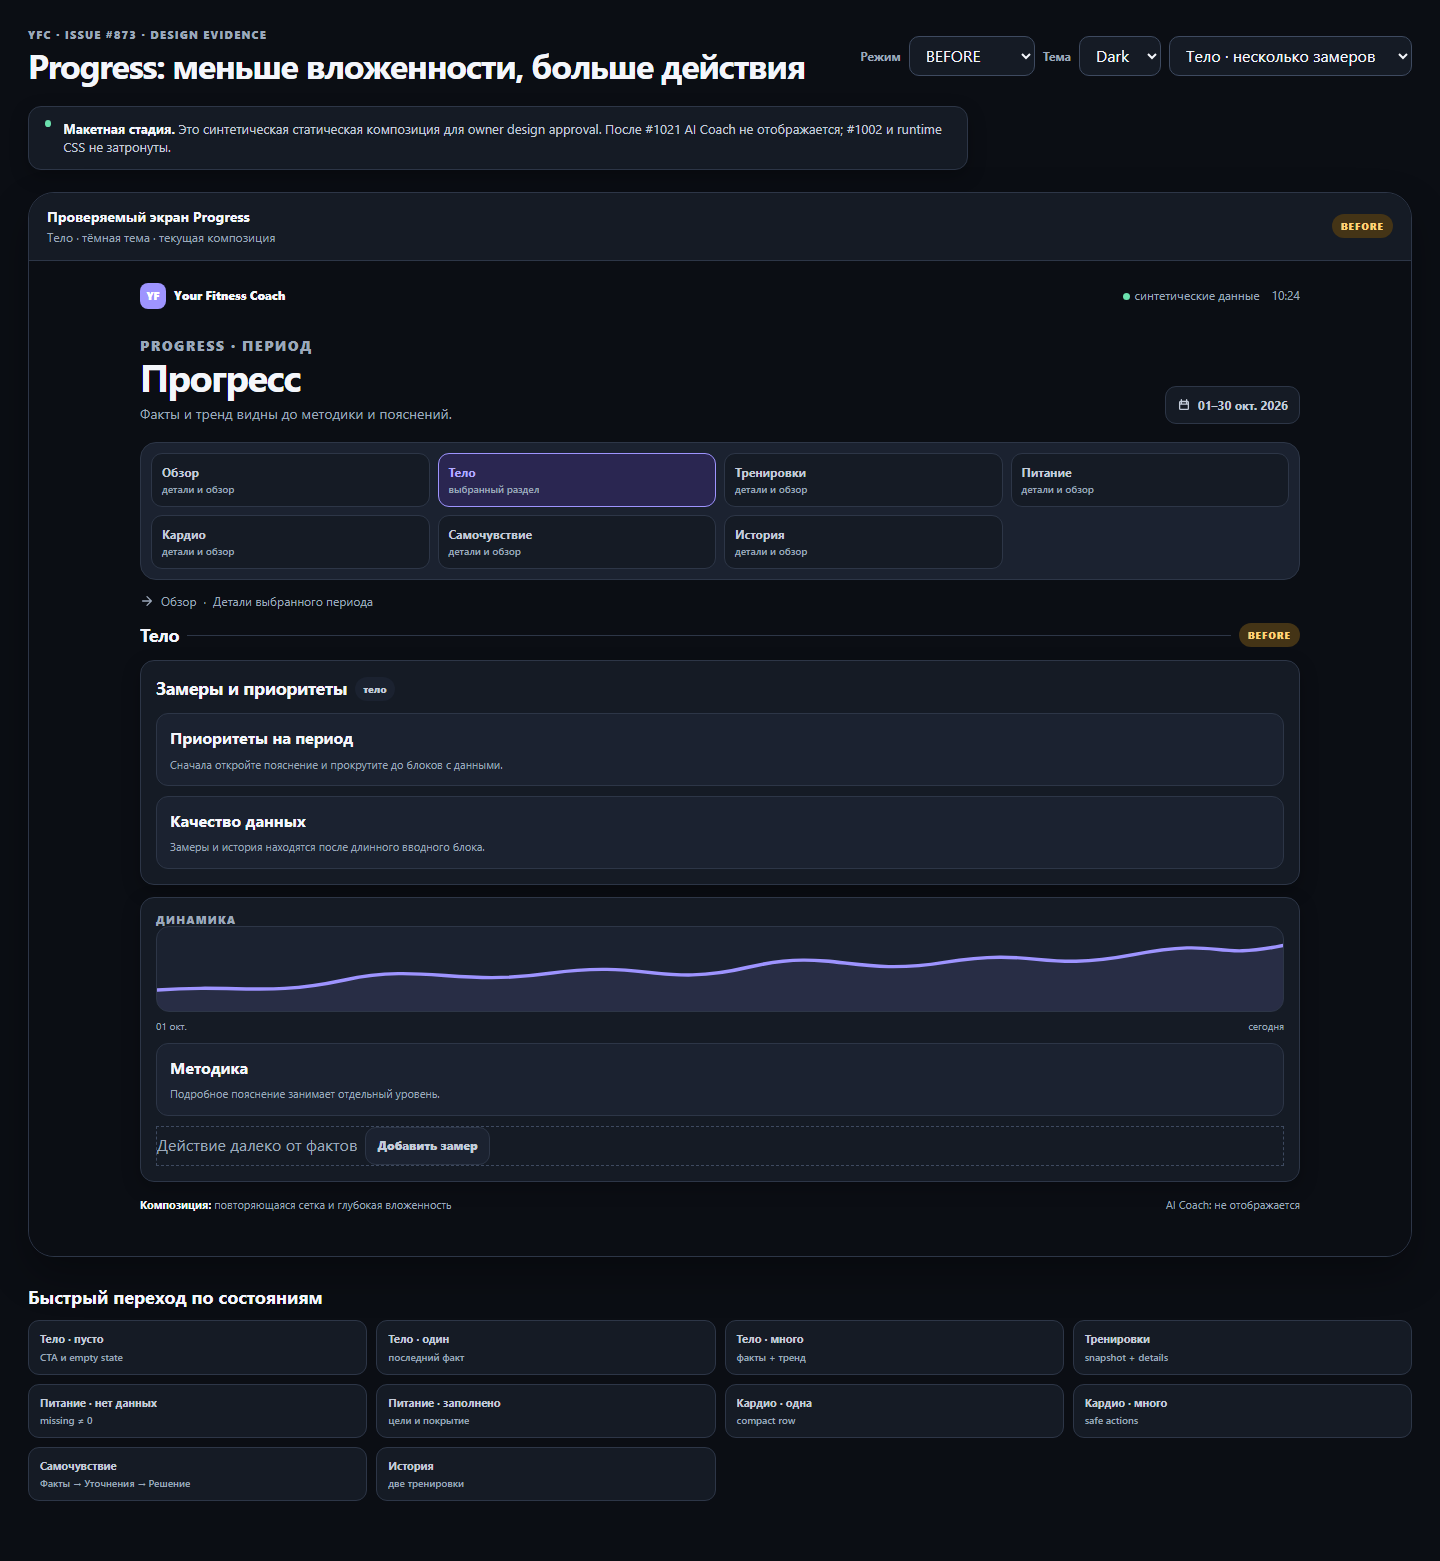
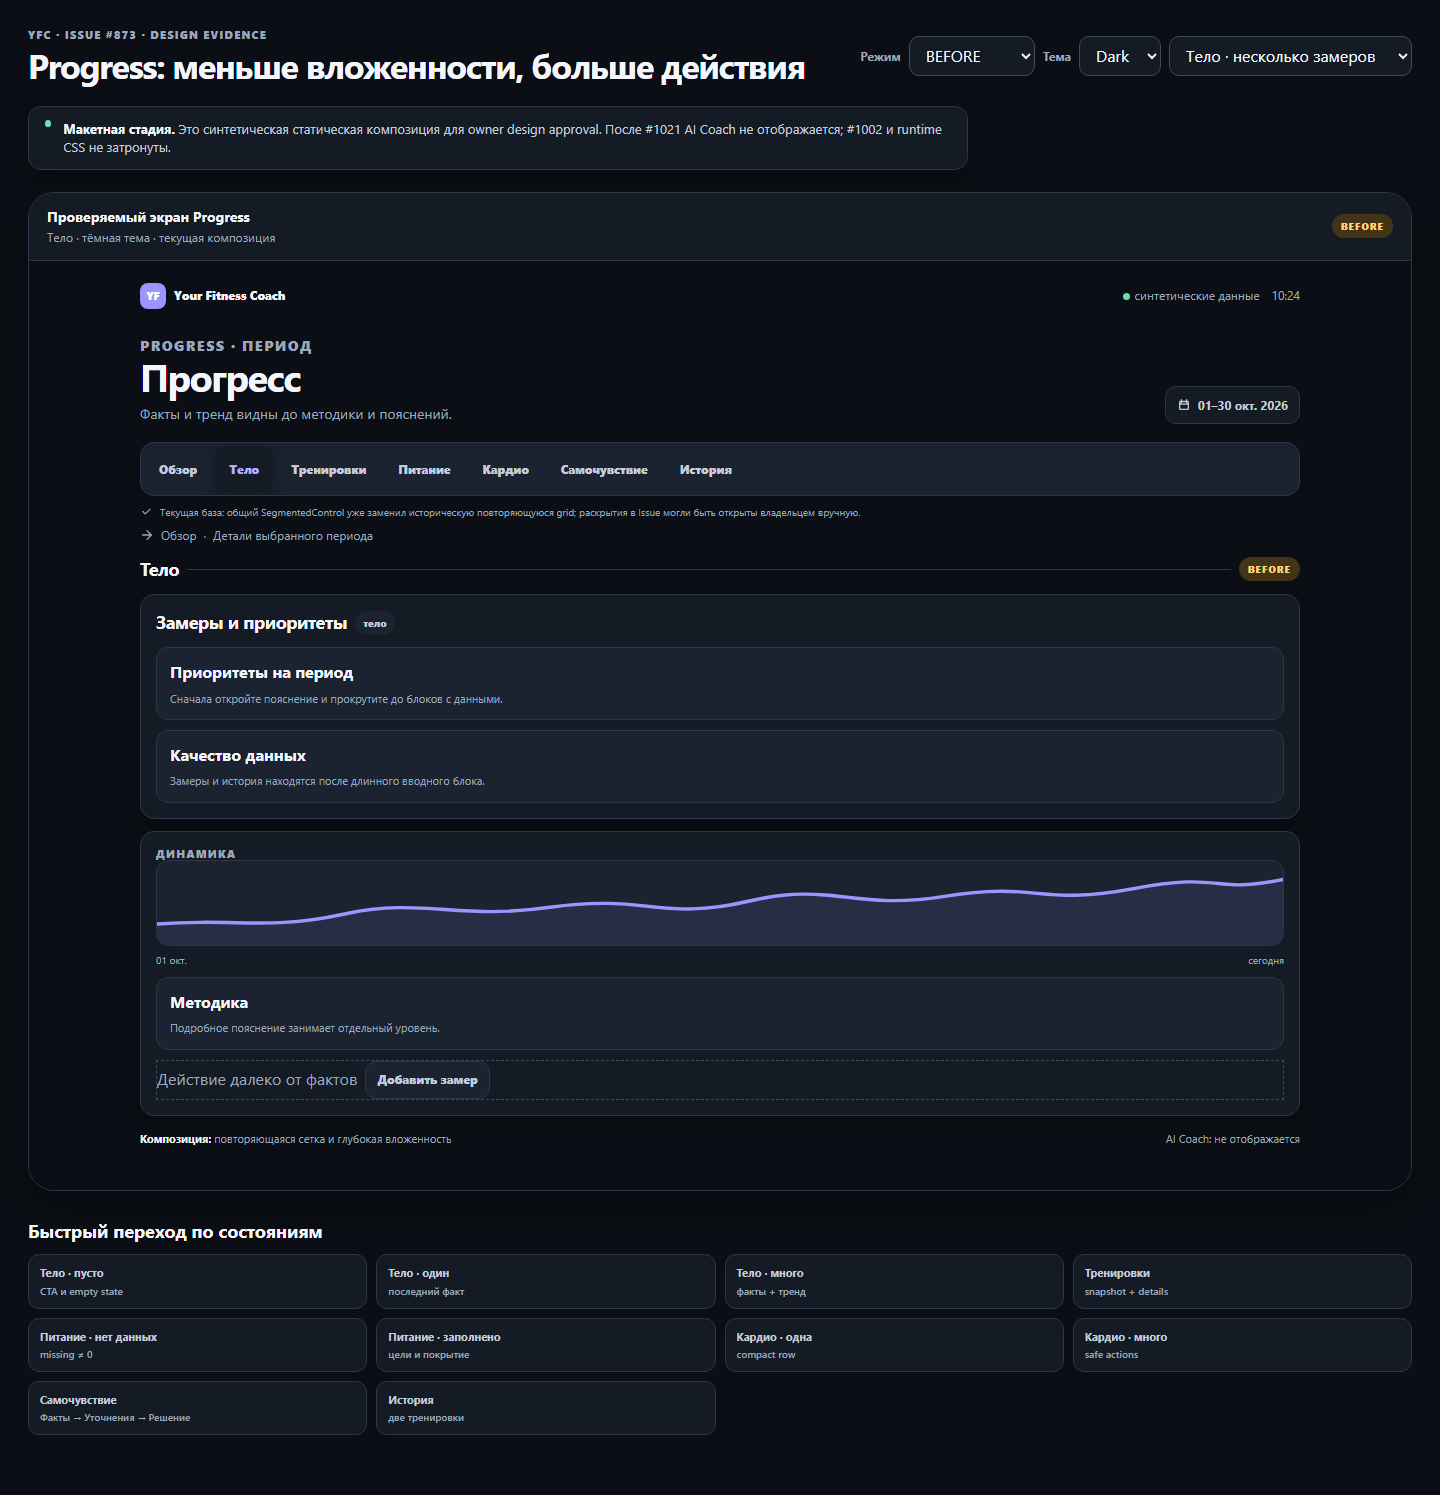
docs(progress): align before package with current nav

diff --git a/docs/ux/issue-873-progress-design-20261016/gallery.html b/docs/ux/issue-873-progress-design-20261016/gallery.html
@@ -255,6 +255,14 @@
         color: var(--muted);
         font-size: 12px;
       }
+      .current-base-note {
+        display: flex;
+        align-items: flex-start;
+        gap: 7px;
+        margin: -11px 0 13px;
+        color: var(--muted);
+        font-size: 10px;
+      }
       .segment-nav {
         display: flex;
         gap: 4px;
@@ -545,10 +553,9 @@
       const navItems = [['Обзор', 'overview'], ['Тело', 'body'], ['Тренировки', 'training'], ['Питание', 'nutrition'], ['Кардио', 'cardio'], ['Самочувствие', 'wellbeing'], ['История', 'history']];
 
       function nav(active, isBefore) {
-        if (isBefore) {
-          return `<div class="legacy-grid" aria-label="Повторяющаяся навигационная сетка">${navItems.map(([label, key]) => `<div class="legacy-item ${key === active ? 'legacy-item--active' : ''}">${label}<small>${key === active ? 'выбранный раздел' : 'детали и обзор'}</small></div>`).join('')}</div><div class="detail-back">${icon('arrow', 14)} Обзор <span>·</span> Детали выбранного периода</div>`;
-        }
-        return `<div class="segment-nav" role="tablist" aria-label="Разделы прогресса">${navItems.map(([label, key]) => `<button type="button" role="tab" aria-selected="${key === active}" ${key === active ? '' : 'tabindex="-1"'}>${label}</button>`).join('')}</div>`;
+        const segment = `<div class="segment-nav" role="tablist" aria-label="Разделы прогресса">${navItems.map(([label, key]) => `<button type="button" role="tab" aria-selected="${key === active}" ${key === active ? '' : 'tabindex="-1"'}>${label}</button>`).join('')}</div>`;
+        if (!isBefore) return segment;
+        return `${segment}<div class="current-base-note">${icon('check', 13)} Текущая база: общий SegmentedControl уже заменил историческую повторяющуюся grid; раскрытия в Issue могли быть открыты владельцем вручную.</div><div class="detail-back">${icon('arrow', 14)} Обзор <span>·</span> Детали выбранного периода</div>`;
       }
 
       function sparkline() {

diff --git a/docs/ux/issue-873-progress-design-20261016/README.md b/docs/ux/issue-873-progress-design-20261016/README.md
@@ -12,8 +12,11 @@ design approval не начиналась.
 - Базовый SHA ревизии: `8a5c955400de87eed8c92974bd196a8343c6cd35`
 - Предлагаемая ветка: `codex/issue-873-progress-design`
 - Проверенная база: `origin/master` на 2026-10-16
-- Текущий раздел `Progress` уже использует общий `SegmentedControl`; перенос основных
-  разделов в начало страницы не повторяется.
+- Текущий раздел `Progress` на проверенной базе уже использует общий `SegmentedControl`
+  после PR #1000; перенос основных разделов в начало страницы не повторяется.
+- Повторяющаяся семипунктная grid из исторических снимков Issue не считается текущим
+  initial state. Раскрытия, которые владелец открывал вручную для демонстрации, не считаются
+  постоянной вложенностью по умолчанию.
 - AI Coach в макете отсутствует полностью: после PR #1021 пользовательский UI его не
   восстанавливает и не оставляет пустого места.
 - #1002 не входит в пакет: `design-v2.css`, селекторы `progress-report-*` и общие baseline
@@ -21,10 +24,10 @@ design approval не начиналась.
 
 ## Что предлагается утвердить
 
-1. Одна компактная peer-навигация в начале Progress: `Обзор`, `Тело`, `Тренировки`,
-   `Питание`, `Кардио`, `Самочувствие`, `История`. Повторяющаяся сетка из семи двустрочных
-   пунктов и отдельная дублирующая ссылка `Обзор` из detail-header убираются из композиции;
-   URL, deep links, Back и выбранный раздел сохраняются.
+1. Сохранить уже внедрённую компактную peer-навигацию в начале Progress: `Обзор`, `Тело`,
+   `Тренировки`, `Питание`, `Кардио`, `Самочувствие`, `История`. Историческая повторяющаяся
+   сетка из семи двустрочных пунктов не возвращается; на review отдельно подтвердить, можно ли
+   убрать только дублирующий `Обзор` из detail-header, сохранив URL, deep links, Back и focus.
 2. В `Тело` рядом с фактическими значениями появляется заметное действие `Добавить замер`
    (touch target не менее 44 CSS px). Оно вызывает существующую форму и её валидацию;
    `История замеров` и редактирование остаются отдельными явными действиями.
@@ -56,8 +59,10 @@ design approval не начиналась.
 - `История`: минимум две тренировки.
 
 Скриншоты из `visuals/` покрывают обе темы, режимы `BEFORE/PROPOSED`, мобильные ширины
-`320/360/393/430` и desktop `1440`. Данные синтетические: `Тестовый спортсмен`, без
-реальных пользовательских скриншотов или приватных переписок.
+`320/360/393/430` и desktop `1440`. `BEFORE` показывает текущую проверенную базу с общим
+`SegmentedControl` и существующим detail-back; `PROPOSED` сохраняет этот nav и меняет только
+согласуемую иерархию деталей и заметность CTA. Данные синтетические: `Тестовый спортсмен`,
+без реальных пользовательских скриншотов или приватных переписок.
 
 | Файл | Назначение |
 | --- | --- |
